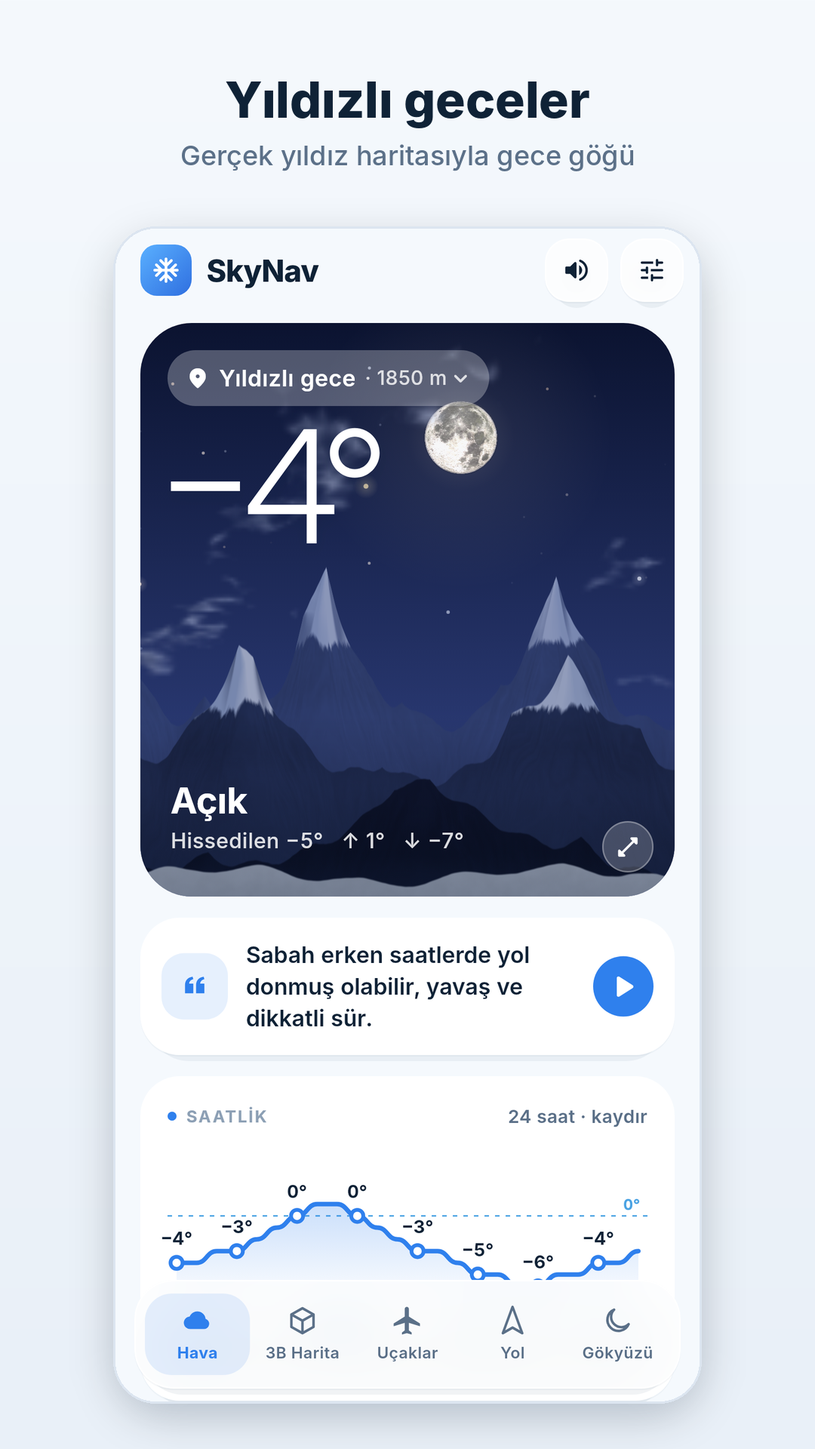
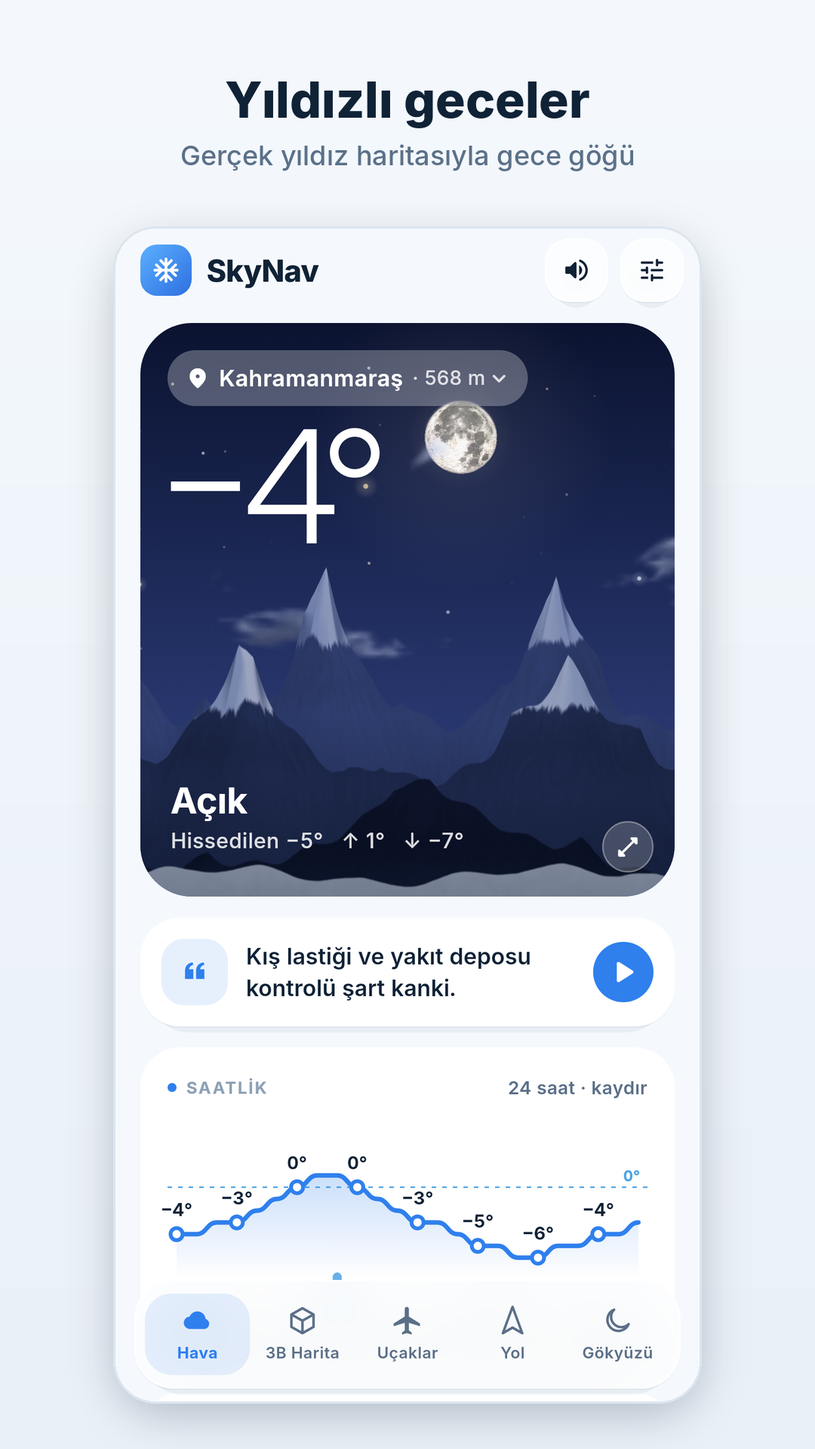
SkyNav 3.2: hesap silme, 4 uygulama ödülü kaldırıldı, mağaza görselleri Kahramanmaraş
- Ayarlar > Gizlilik & izinler > Hesabımı ve verilerimi sil: Google ile yeniden
  onay, ardından users/{uid} (yedek, Pro hakları, davet kredileri) ve hesabın silinmesi;
  cihaz özeti ve kullanılmış davet kodları kötüye kullanıma karşı saklanır
- firestore.rules: kullanıcının kendi belgesi, grants ve credits için silme izni
  (Firebase konsolunda yayınlanmalı)
- "4 uygulama = 30 gün Pro" ödülü kaldırıldı (Play teşvikli yükleme politikası);
  arkadaş daveti ödülü aynen duruyor
- Gizlilik metni güncellendi; web için docs/skynav_gizlilik.md ve skynav_hesap_silme.md
- Mağaza ekran görüntüleri Kahramanmaraş ile yeniden üretildi

Claude-Session: https://claude.ai/code/session_01SzbEojt5FNgQrVtGVW4MMb

diff --git a/skynav/test/shots/shots_test.dart b/skynav/test/shots/shots_test.dart
@@ -57,10 +57,10 @@ Future<void> _font(String family, List<String> files) async {
 WeatherSnapshot fake({PrecipKind k = PrecipKind.snow, bool day = true, double t = -2}) {
   final now = DateTime.now();
   return WeatherSnapshot(
-    place: const GeoPoint2(39.9, 41.27, elevation: 1850, name: 'Erzurum'), fetchedAt: now,
+    place: _home, fetchedAt: now,
     temp: t, feelsLike: t - 6, humidity: 88, dewPoint: t - 2, pressure: 1012, windSpeed: 6.5, windDir: 300, windGust: 11,
     cloudCover: k == PrecipKind.none ? 20 : 90, cloudHigh: 30, precip: k == PrecipKind.none ? 0 : 1.1, snowfall: k == PrecipKind.snow ? .9 : 0,
-    visibilityM: 4000, cape: 30, uv: 1.2, freezingLevelM: 900, snowDepthM: .18, wetBulb: t - .6, weatherCode: 73, isDay: day,
+    visibilityM: 4000, cape: 30, uv: 1.2, freezingLevelM: _store ? 250 : 900, snowDepthM: .18, wetBulb: t - .6, weatherCode: 73, isDay: day,
     soil0: -1.2, soil6: -.4, soil18: .8, soil54: 3.1, soil0Past3dAvg: -.6,
     pressureLevels: const {1000: {'temp': -2}, 925: {'temp': -6}, 850: {'temp': -9}, 700: {'temp': -16}, 500: {'temp': -30}, 300: {'temp': -48}},
     // Figma örneğiyle aynı saatlik seri (3 saat geçmiş + 24 saat); basınç son 3 saatte sabit.
@@ -95,6 +95,8 @@ const _hp = <double>[.5, .6, .3, 0, 0, 0, .2, .8, 1.2, .9, .4, 0, 0, 0, .3, .7, 
 
 /// Mağaza modu (--dart-define=STORE=true): tüm ekranlar 390×780, 3 kat çözünürlük, /tmp/store'a (Play görselleri).
 const _store = bool.fromEnvironment('STORE');
+/// Örnek şehir: ekran testlerinde Erzurum, mağaza görsellerinde Kahramanmaraş.
+const _home = _store ? GeoPoint2(37.585, 36.937, elevation: 568, name: 'Kahramanmaraş') : GeoPoint2(39.9, 41.27, elevation: 1850, name: 'Erzurum');
 
 Future<void> shot(WidgetTester t, Widget w, String name, {Size size = const Size(412, 915), Duration extra = Duration.zero}) async {
   if (_store) size = name == '02b_weather_full' ? const Size(390, 3400) : const Size(390, 780);
@@ -136,18 +138,18 @@ void main() {
     WeatherController.I.debugSet(s, WeatherEngine.analyze(s));
     final an = WeatherEngine.analyze(s);
     await shot(t, Scaffold(backgroundColor: const Color(0xFF6B7F99), body: Center(child: Column(mainAxisSize: MainAxisSize.min, children: [
-      WeatherWidgetFace(s: s, a: an, place: 'Erzurum', condition: 'Kar', line2: 'Rüzgâr 6 m/s · nem %88', today: s.daily.first),
+      WeatherWidgetFace(s: s, a: an, place: _home.name, condition: 'Kar', line2: 'Rüzgâr 6 m/s · nem %88', today: s.daily.first),
       const SizedBox(height: 16),
-      WeatherWidgetFace(s: fake(k: PrecipKind.none, day: false, t: 6), a: WeatherEngine.analyze(fake(k: PrecipKind.none, day: false, t: 6)), place: 'Erzurum', condition: 'Açık gece', line2: 'Yıldız netliği %80'),
+      WeatherWidgetFace(s: fake(k: PrecipKind.none, day: false, t: 6), a: WeatherEngine.analyze(fake(k: PrecipKind.none, day: false, t: 6)), place: _home.name, condition: 'Açık gece', line2: 'Yıldız netliği %80'),
       const SizedBox(height: 16),
       const Row(mainAxisSize: MainAxisSize.min, children: [
         SpeedWidgetFace(speedKmh: 54, road: 'Karlı', gText: 'G 0.2', warn: 'Yol kaygan, yavaş git kanki.', level: 1),
       ]),
       const SizedBox(height: 16),
-      HourlyWidgetFace(s: s, place: 'Erzurum', now: DateTime.now()),
+      HourlyWidgetFace(s: s, place: _home.name, now: DateTime.now()),
       const SizedBox(height: 16),
       Row(mainAxisSize: MainAxisSize.min, children: [
-        MiniWidgetFace(s: s, a: an, place: 'Erzurum', today: s.daily.first, now: DateTime.now()),
+        MiniWidgetFace(s: s, a: an, place: _home.name, today: s.daily.first, now: DateTime.now()),
         const SizedBox(width: 16),
         MoonWidgetFace(lat: s.place.lat, lon: s.place.lon, now: DateTime.now()),
       ]),
@@ -155,7 +157,7 @@ void main() {
       Row(mainAxisSize: MainAxisSize.min, children: [
         SkiWidgetFace(s: SkiNow(skiResorts.first, snowCm: 85, new24: 12, next72: 30, temp: -8, wind: 6, gust: 12, gustNext12: 14, code: 73), km: 4),
         const SizedBox(width: 16),
-        AirWidgetFace(s: s, place: 'Erzurum'),
+        AirWidgetFace(s: s, place: _home.name),
       ]),
     ]))), '00_widgets', size: const Size(412, 1200));
     await shot(t, const Onboarding(onDone: _noop), '01_onboarding');
@@ -198,7 +200,7 @@ void main() {
         ? PlaceNow(place: p, temp: -3, tMax: 0, tMin: -8, wind: 4, precip: .4, cloud: 95, code: 73, isDay: true)
         : PlaceNow(place: p, temp: 1, tMax: 4, tMin: -6, wind: 2, precip: 0, cloud: 30, code: 2, isDay: true)), '21_places', size: const Size(412, 900));
     await shot(t, CompareScreen(
-        a: PlaceNow(place: const GeoPoint2(39.9, 41.27, name: 'Erzurum'), temp: -2, tMax: 1, tMin: -7, wind: 6, precip: 1, cloud: 90, code: 73, isDay: true, days: s.daily),
+        a: PlaceNow(place: _home, temp: -2, tMax: 1, tMin: -7, wind: 6, precip: 1, cloud: 90, code: 73, isDay: true, days: s.daily),
         b: PlaceNow(place: const GeoPoint2(39.95, 41.10, name: 'Anneannem'), temp: -5, tMax: -1, tMin: -11, wind: 3, precip: 0, cloud: 30, code: 2, isDay: true,
             days: [for (final d in s.daily) DayPoint(date: d.date, tMax: d.tMax - 3, tMin: d.tMin - 4, precipSum: d.precipSum * 1.5, snowSum: d.snowSum * 1.6, windMax: d.windMax, weatherCode: d.weatherCode)])),
         '25_compare', size: const Size(412, 1000));
@@ -253,7 +255,7 @@ void main() {
         ('06f_golden', variant(4, 30, 1, 0, true, snowDepth: .1, at: GeoPoint2(39.9, _lonForSun(3), elevation: 1850, name: 'Gün batımı'))),
         ('06g_bluehour', variant(2, 20, 0, 0, false, snowDepth: .1, at: GeoPoint2(39.9, _lonForSun(-3.5), elevation: 1850, name: 'Mavi saat'))),
         // Karanlık, açık gece: gerçek yıldızlar ve gezegenler
-        ('06h_starry', variant(-4, 5, 0, 0, false, snowDepth: .1, at: GeoPoint2(39.9, _lonForSun(-35), elevation: 1850, name: 'Yıldızlı gece')))]) {
+        ('06h_starry', variant(-4, 5, 0, 0, false, snowDepth: .1, at: GeoPoint2(39.9, _lonForSun(-35), elevation: _home.elevation, name: _store ? _home.name : 'Yıldızlı gece')))]) {
       WeatherController.I.debugSet(v, WeatherEngine.analyze(v));
       await shot(t, const AppShell(), name, size: const Size(412, 560));
     }

diff --git a/skynav/lib/ui/settings_screen.dart b/skynav/lib/ui/settings_screen.dart
@@ -6,6 +6,7 @@ import 'package:package_info_plus/package_info_plus.dart';
 import 'package:permission_handler/permission_handler.dart';
 import '../data/policy_text.dart';
 import '../pro/pro_service.dart';
+import '../services/account_service.dart';
 import '../services/auth_service.dart';
 import '../services/cloud_backup.dart';
 import '../services/store.dart';
@@ -29,13 +30,11 @@ class _SettingsScreenState extends State<SettingsScreen> {
   String _ver = '';
   int _taps = 0;
   bool _devUnlocked = Store.prefs.get('dev_unlocked', defaultValue: false) as bool;
-  List<Map<String, dynamic>> _apps = [];
 
   @override
   void initState() {
     super.initState();
     PackageInfo.fromPlatform().then((p) => setState(() => _ver = '${p.version}+${p.buildNumber}'));
-    ProService.I.myApps().then((a) => setState(() => _apps = a));
   }
 
   void _tapVersion() async {
@@ -74,6 +73,42 @@ class _SettingsScreenState extends State<SettingsScreen> {
         trailing: trailing ?? (onTap != null ? const Icon(Icons.chevron_right_rounded, color: kInkFaint) : null),
         onTap: onTap,
       );
+
+  /// Hesap silme: açık uyarı → Google ile onay → sil → sonuç.
+  Future<void> _deleteAccount() async {
+    Widget line(String t) => Padding(padding: const EdgeInsets.only(top: 6), child: Row(crossAxisAlignment: CrossAxisAlignment.start, children: [
+          const Padding(padding: EdgeInsets.only(top: 7), child: Icon(Icons.circle, size: 5, color: kInkSoft)),
+          const SizedBox(width: 8),
+          Expanded(child: Text(t, style: T.small.copyWith(color: kInk))),
+        ]));
+    final yes = await showDialog<bool>(context: context, builder: (c) => AlertDialog(
+      title: const Text('Hesabın silinsin mi?'),
+      content: SingleChildScrollView(child: Column(mainAxisSize: MainAxisSize.min, crossAxisAlignment: CrossAxisAlignment.start, children: [
+        Text('Bu işlem geri alınamaz. Kalıcı olarak silinecekler:', style: T.body.copyWith(fontSize: 14.5)),
+        line('Google ile açılan SkyNav hesabın'),
+        line('Pro hakların, ödüllerin ve davet kredilerin'),
+        line('Buluttaki yedeğin: kayıtlı yerler, rozetler, kapsüller, ayarlar'),
+        const SizedBox(height: 10),
+        Text('Google Play\'den Pro satın aldıysan, aynı Gmail ile yeniden girip "Satın alımları geri yükle" ile geri getirebilirsin. '
+            'Bu telefondaki veriler kalır. Kötüye kullanımı önlemek için cihaz özeti ve kullanılmış davet kodları saklanır.', style: T.small.copyWith(fontSize: 12.5)),
+        const SizedBox(height: 10),
+        Text('Onaylamak için Google hesabını bir kez daha seçeceksin.', style: T.small.copyWith(fontSize: 12.5, fontWeight: FontWeight.w700)),
+      ])),
+      actions: [
+        TextButton(onPressed: () => Navigator.pop(c, false), child: const Text('Vazgeç')),
+        TextButton(onPressed: () => Navigator.pop(c, true), child: const Text('Kalıcı olarak sil', style: TextStyle(color: kDanger, fontWeight: FontWeight.w700))),
+      ],
+    ));
+    if (yes != true || !mounted) return;
+    showDialog<void>(context: context, barrierDismissible: false, builder: (_) => const Center(child: CircularProgressIndicator()));
+    final err = await AccountService.deleteAccount();
+    if (!mounted) return;
+    Navigator.of(context, rootNavigator: true).pop();
+    await ProService.I.refresh();
+    if (!mounted) return;
+    ScaffoldMessenger.of(context).showSnackBar(SnackBar(content: Text(err ?? 'Hesabın ve buluttaki verilerin silindi.')));
+    setState(() {});
+  }
 
   static String _ago(DateTime? t) {
     if (t == null) return 'henüz yok';
@@ -228,14 +263,6 @@ class _SettingsScreenState extends State<SettingsScreen> {
           _tile(Icons.new_releases_outlined, kAccent, 'Yenilikler', sub: 'Son sürümlerde gelenler', onTap: () => Navigator.push(context, MaterialPageRoute(builder: (_) => const WhatsNew()))),
         ]),
 
-        const SectionLabel('Diğer uygulamalarım'),
-        Glass(child: Column(crossAxisAlignment: CrossAxisAlignment.start, children: [
-          const Text('Aynı hesapla 7+ gündür aktif 4 uygulama = 30 gün Pro.', style: T.small),
-          if (_apps.isEmpty) Padding(padding: const EdgeInsets.only(top: 10), child: Text('Henüz kayıtlı uygulama yok (giriş yapınca görünür).', style: T.body.copyWith(fontSize: 14))),
-          for (final a in _apps) ListTile(contentPadding: EdgeInsets.zero, leading: const IconBadge(Icons.apps_rounded, size: 36), title: Text(a['id'].toString(), style: const TextStyle(fontWeight: FontWeight.w600)),
-              subtitle: Text('İlk: ${(a['firstSeen'] as dynamic)?.toDate().toString().substring(0, 10) ?? '-'}')),
-        ])),
-
         const SectionLabel('Gizlilik & izinler'),
         _group([
           _tile(Icons.privacy_tip_outlined, kInkSoft, 'Gizlilik Politikası', onTap: () => _show('Gizlilik Politikası', privacyText)),
@@ -243,6 +270,8 @@ class _SettingsScreenState extends State<SettingsScreen> {
           _tile(Icons.shield_outlined, kInkSoft, 'Veri Kullanımı & İzinler', onTap: () => _show('Veri Kullanımı & İzinler', dataText)),
           _tile(Icons.app_settings_alt_outlined, kAccent, 'Uygulama izinlerini değiştir', onTap: openAppSettings),
           _tile(Icons.copyright_rounded, kInkSoft, 'Kaynaklar ve lisanslar', sub: 'Ay haritası, yıldızlar, doğa sesleri, yazı tipi, haritalar', onTap: () => _show('Kaynaklar ve lisanslar', creditsText)),
+          if (AuthService.user != null)
+            _tile(Icons.person_remove_outlined, kDanger, 'Hesabımı ve verilerimi sil', sub: 'Hesabın, Pro hakların ve buluttaki yedeğin kalıcı silinir', onTap: _deleteAccount),
         ]),
 
         if (_devUnlocked) ...[

diff --git a/skynav/lib/pro/pro_service.dart b/skynav/lib/pro/pro_service.dart
@@ -10,7 +10,8 @@ import '../services/auth_service.dart';
 import '../services/cloud.dart';
 import '../services/store.dart';
 
-/// Pro hakları. Kaynaklar: geliştirici modu, ömür boyu, süreli hibeler (lansman, davet, ekosistem, satın alma).
+/// Pro hakları. Kaynaklar: geliştirici modu, ömür boyu, süreli hibeler (lansman, davet, satın alma).
+/// ("4 uygulama = 30 gün Pro" ödülü Play'in teşvikli yükleme politikası nedeniyle 3.2'de kaldırıldı; verilmiş hibeler süresince geçerli.)
 class ProState {
   final bool dev, lifetime;
   final DateTime? until;
@@ -103,7 +104,7 @@ class ProService extends ChangeNotifier {
     notifyListeners();
   }
 
-  /// Hesap açıldığında bir kez çalışır: kullanıcı belgesi, davet kodu, ekosistem, lansman ödülü.
+  /// Hesap açıldığında bir kez çalışır: kullanıcı belgesi, davet kodu, uygulama kaydı, lansman ödülü.
   Future<void> onSignedIn() async {
     if (!Cloud.ready || uid == null) return;
     final ref = _db.collection('users').doc(uid);
@@ -118,7 +119,6 @@ class ProService extends ChangeNotifier {
         });
       }
       await registerThisApp();
-      await checkEcosystem();
       await claimLaunchReward();
     } catch (e) { debugPrint('onSignedIn: $e'); }
     await refresh();
@@ -130,7 +130,7 @@ class ProService extends ChangeNotifier {
     return 'SKY-${List.generate(6, (_) => a[r.nextInt(a.length)]).join()}';
   }
 
-  /// Her açılışta: bu uygulamanın "yüklü ve aktif" kaydı (ekosistem motoru).
+  /// Her açılışta: bu uygulamanın kaydı (users/{uid}/apps/skynav; bulut yedeği de bu belgede durur).
   Future<void> registerThisApp({String appId = 'skynav'}) async {
     if (!Cloud.ready || uid == null) return;
     final ref = _db.collection('users').doc(uid).collection('apps').doc(appId);
@@ -140,30 +140,6 @@ class ProService extends ChangeNotifier {
     } else {
       await ref.update({'lastActive': FieldValue.serverTimestamp()});
     }
-  }
-
-  /// Aynı Gmail'de ≥7 gündür yüklü + son 7 günde aktif ≥4 farklı uygulama → 30 gün Pro.
-  Future<List<Map<String, dynamic>>> myApps() async {
-    if (!Cloud.ready || uid == null) return [];
-    final q = await _db.collection('users').doc(uid).collection('apps').get();
-    return q.docs.map((d) => {'id': d.id, ...d.data()}).toList();
-  }
-
-  Future<bool> checkEcosystem() async {
-    final apps = await myApps();
-    final now = DateTime.now();
-    int ok = 0;
-    for (final a in apps) {
-      final f = (a['firstSeen'] as Timestamp?)?.toDate();
-      final l = (a['lastActive'] as Timestamp?)?.toDate();
-      if (f != null && l != null && now.difference(f).inDays >= 7 && now.difference(l).inDays <= 7) ok++;
-    }
-    if (ok < 4) return false;
-    final g = _db.collection('users').doc(uid).collection('grants').doc('eco_30d');
-    if ((await g.get()).exists) return false;
-    await g.set({'kind': 'eco', 'days': 30, 'until': Timestamp.fromDate(now.add(const Duration(days: 30))), 'at': FieldValue.serverTimestamp()});
-    lastMessage = '4 uygulamam = 1 ay Pro! Aynı hesapla 4 uygulamayı kullandığın için 30 gün SkyNav Pro hediye.';
-    return true;
   }
 
   // ---------- Lansman ödül sayacı ----------

diff --git a/skynav/lib/services/account_service.dart b/skynav/lib/services/account_service.dart
@@ -1,0 +1,52 @@
+import 'package:cloud_firestore/cloud_firestore.dart';
+import 'package:flutter/foundation.dart';
+import 'package:google_sign_in/google_sign_in.dart';
+import 'auth_service.dart';
+import 'cloud.dart';
+import 'store.dart';
+
+/// Hesap silme (Google Play hesap silme şartı): Ayarlar > Gizlilik & izinler > Hesabımı ve verilerimi sil.
+///
+/// Silinenler: users/{uid} belgesi ve alt koleksiyonları (apps: bulut yedeği ve uygulama kaydı, grants: Pro hakları,
+/// credits: davet kredileri) ve Firebase Auth kullanıcısı. Kötüye kullanımı önlemek için devices (cihaz özeti) ve
+/// invites (kullanılmış davet kodları) saklanır; gizlilik metninde yazılı. Telefondaki yerel veriler (kayıtlı yerler vb.)
+/// silinmez; yalnızca hesapla ilgili yerel izler temizlenir.
+///
+/// firestore.rules: users/{uid}, grants ve credits için sahibine delete izni gerekir (3.2'de eklendi; konsolda yayınlanmalı).
+class AccountService {
+  /// Başarılıysa null, değilse kullanıcıya gösterilecek hata metni.
+  static Future<String?> deleteAccount() async {
+    final u = AuthService.user;
+    if (!Cloud.ready || u == null) return 'Giriş yapılmamış.';
+    // Firebase hesap silmek için yakın tarihli giriş ister: önce doğrula, sonra sil (yarım kalmasın)
+    final re = await AuthService.reauthenticate();
+    if (re != null) return re;
+    final me = FirebaseFirestore.instance.collection('users').doc(u.uid);
+    try {
+      for (final c in const ['apps', 'grants', 'credits']) {
+        final q = await me.collection(c).get();
+        for (var i = 0; i < q.docs.length; i += 400) {
+          final b = FirebaseFirestore.instance.batch();
+          for (final d in q.docs.skip(i).take(400)) { b.delete(d.reference); }
+          await b.commit();
+        }
+      }
+      await me.delete();
+      await u.delete();
+    } on FirebaseException catch (e) {
+      debugPrint('hesap silme: $e');
+      return e.code == 'permission-denied'
+          ? 'Silme şu an yapılamadı (sunucu izni). Lütfen daha sonra tekrar dene.'
+          : 'Silinemedi: ${e.message ?? e.code}. İnternet bağlantını kontrol edip tekrar dene.';
+    } catch (e) {
+      debugPrint('hesap silme: $e');
+      return 'Silinemedi. İnternet bağlantını kontrol edip tekrar dene.';
+    }
+    try { await GoogleSignIn.instance.signOut(); } catch (_) {}
+    // Hesapla ilgili yerel izler (Pro önbelleği, bulut eşitleme damgası, davet kodu)
+    for (final k in const ['cloud_rev', 'cloud_backup_at', 'cloud_backup_off', 'pro_until', 'pro_life', 'dev_account', 'discount_until', 'launch_checked', 'pending_code']) {
+      try { await Store.prefs.delete(k); } catch (_) {}
+    }
+    return null;
+  }
+}

diff --git a/skynav/lib/ui/onboarding.dart b/skynav/lib/ui/onboarding.dart
@@ -204,9 +204,8 @@ class _OnboardingState extends State<Onboarding> {
         const SizedBox(height: 10),
         const Text('Google ile girersen haklarını kaybetmezsin, uygulamalarım arasında birleşir.', style: T.body),
         const SizedBox(height: 22),
-        const _Feature(Icons.workspace_premium_rounded, kPro, '4 uygulama = 1 ay Pro', 'Aynı hesapla 4 uygulamamı 7+ gün kullanırsan 30 gün Pro hediye.'),
         const _Feature(Icons.card_giftcard_rounded, kGood, 'Davet ödülleri', 'Kodunu paylaş; arkadaşın onaylarsa ikiniz de 1 hafta Pro.'),
-        const _Feature(Icons.sync_rounded, kAccent, 'Hakların güvende', 'Telefon değiştirsen de Pro ve ödüllerin hesabında kalır.'),
+        const _Feature(Icons.sync_rounded, kAccent, 'Verilerin güvende', 'Telefon değiştirsen ya da uygulamayı silip yüklesen de Pro, kayıtlı yerlerin ve ayarların hesabında kalır.'),
         for (final n in _notes) Padding(padding: const EdgeInsets.only(top: 8), child: Row(crossAxisAlignment: CrossAxisAlignment.start, children: [
           const Icon(Icons.info_outline_rounded, size: 18, color: kWarn), const SizedBox(width: 8), Expanded(child: Text(n, style: T.small.copyWith(color: kInk))),
         ])),

diff --git a/skynav/lib/data/policy_text.dart b/skynav/lib/data/policy_text.dart
@@ -7,7 +7,7 @@ const privacyText = '''Gizlilik Politikası (özet)
 • Cihaz kimliği: davet/ödül suistimalini önlemek için cihazdan türetilmiş tek yönlü bir özet (hash) saklanır; ham kimlik gönderilmez.
 • Özetler ve hava önbelleği yalnızca cihazında (Hive) kalır. Giriş yapmadıysan ya da bulut yedeği kapalıysa kayıtlı konumların ve öz-denetim kayıtların da yalnızca cihazındadır. Harici yapay zeka servisi kullanılmaz.
 • Kamera/mikrofon yalnızca "Kendi Hava Kanalını Sun" kaydı sırasında, senin başlattığında çalışır; kayıt cihazında kalır.
-• Verilerini silmek için Ayarlar > Hesabı ve verilerimi sil.''';
+• Hesabını ve verilerini silmek için: Ayarlar > Gizlilik & izinler > Hesabımı ve verilerimi sil. Hesabın, Pro hakların, davet kredilerin ve buluttaki yedeğin kalıcı olarak silinir. Kötüye kullanımı önlemek için cihazdan türetilmiş tek yönlü özet ve kullanılmış davet kodları saklanır. Telefondaki veriler uygulamayı silince kalkar.''';
 
 const termsText = '''Kullanım Şartları (özet)
 

diff --git a/skynav/lib/services/auth_service.dart b/skynav/lib/services/auth_service.dart
@@ -27,6 +27,22 @@ class AuthService {
     }
   }
 
+  /// Hassas işlemlerden (hesap silme) önce: aynı Google hesabıyla yeniden doğrular. Başarılıysa null, değilse hata metni.
+  static Future<String?> reauthenticate() async {
+    final u = user;
+    if (u == null) return 'Giriş yapılmamış.';
+    try {
+      if (!_gsiInit) { await GoogleSignIn.instance.initialize(serverClientId: _webClientId); _gsiInit = true; }
+      final acc = await GoogleSignIn.instance.authenticate();
+      await u.reauthenticateWithCredential(GoogleAuthProvider.credential(idToken: acc.authentication.idToken));
+      return null;
+    } on FirebaseAuthException catch (e) {
+      return e.code == 'user-mismatch' ? 'Giriş yaptığın Gmail hesabını seçmelisin.' : 'Doğrulanamadı: ${e.message ?? e.code}';
+    } catch (e) {
+      return 'Doğrulama iptal edildi.';
+    }
+  }
+
   static Future<void> signOut() async {
     try { await GoogleSignIn.instance.signOut(); } catch (_) {}
     if (Cloud.ready) await FirebaseAuth.instance.signOut();

diff --git a/skynav/lib/ui/whats_new.dart b/skynav/lib/ui/whats_new.dart
@@ -34,6 +34,7 @@ class WhatsNew extends StatelessWidget {
     ]),
     (Icons.touch_app_outlined, kWarn, kBentoPeach, 'Kolaylık', [
       'Bulut yedeği: Gmail ile girersen yerlerin, rozetlerin ve ayarların hesabına yedeklenir; silip yüklesen de geri gelir',
+      'Hesabımı ve verilerimi sil: Ayarlar > Gizlilik & izinler',
       'Günlere ve saatlere dokun: ayrıntı sayfası',
       'Anlaşılır dil: bilimsel terimler gündelik dile döner',
       'Konum araması yazarken arar; büyük yazı, küçük ekran ve ekran okuyucu desteği',

diff --git a/docs/skynav_gizlilik.md b/docs/skynav_gizlilik.md
@@ -1,0 +1,14 @@
+# SkyNav — Gizlilik Politikası
+
+**Uygulama:** SkyNav: Kar, Hava ve Gökyüzü (Google Play)
+
+- SkyNav reklam göstermez, verini satmaz.
+- Konum: hava durumunu, rakımını ve çevre dağlarını hesaplamak için cihazında kullanılır. Hava verisi alınırken yaklaşık koordinatın Open-Meteo, NOAA ve RainViewer gibi ücretsiz servislere gider; kim olduğun gönderilmez.
+- Hesap: Google ile girersen e-posta adresin ve Pro hakların Firebase'de (Firestore) senin hesabına bağlı saklanır. Girişsiz de kullanabilirsin.
+- Bulut yedeği: Google ile girdiysen kayıtlı yerlerin, rozetlerin, zaman kapsüllerin, gözlem kayıtların ve uygulama ayarların da Firestore'da yalnızca senin erişebildiğin hesap kaydına yedeklenir; uygulamayı silip yeniden kursan ya da telefon değiştirsen aynı Google hesabıyla girince geri gelir. Ayarlar > Bulut yedeği'nden kapatabilir ya da buluttaki yedeği silebilirsin.
+- Cihaz kimliği: davet/ödül suistimalini önlemek için cihazdan türetilmiş tek yönlü bir özet (hash) saklanır; ham kimlik gönderilmez.
+- Özetler ve hava önbelleği yalnızca cihazında (Hive) kalır. Giriş yapmadıysan ya da bulut yedeği kapalıysa kayıtlı konumların ve öz-denetim kayıtların da yalnızca cihazındadır. Harici yapay zeka servisi kullanılmaz.
+- Kamera/mikrofon yalnızca "Kendi Hava Kanalını Sun" kaydı sırasında, senin başlattığında çalışır; kayıt cihazında kalır.
+- Hesabını ve verilerini silmek için: Ayarlar > Gizlilik & izinler > Hesabımı ve verilerimi sil. Hesabın, Pro hakların, davet kredilerin ve buluttaki yedeğin kalıcı olarak silinir. Kötüye kullanımı önlemek için cihazdan türetilmiş tek yönlü özet ve kullanılmış davet kodları saklanır. Telefondaki veriler uygulamayı silince kalkar.
+
+Hesap ve veri silme: [skynav_hesap_silme.md](skynav_hesap_silme.md)

diff --git a/docs/SKYNAV_DEVAM.md b/docs/SKYNAV_DEVAM.md
@@ -177,3 +177,15 @@ Kullanıcı (RSA): Türkçe, kısa ve samimi konuş; teknik değil, tasarıma ç
   windows-latest'te VS 2026 var ve Flutter 3.35.7 tanımıyor). kilit/main'i çekip `flutter create --platforms=windows`,
   dik pencere 440×920, Inno Setup ile SkyNav-Setup-<sürüm>.exe + zip → o deponun Releases'ına.
   Windows'ta telefona özel eklentiler (widget, workmanager, Google giriş, satın alma, sensörler) çalışmaz.
+
+## 3.2.0+26 — Play politikası
+- "4 uygulama = 30 gün Pro" (ekosistem) ödülü KALDIRILDI (Play: teşvikli yükleme yasağı). pro_service: checkEcosystem/myApps
+  silindi; registerThisApp kalır (apps/skynav belgesi bulut yedeğini taşır). Onboarding ve Ayarlar'daki "Diğer uygulamalarım"
+  kalktı. Arkadaş daveti ödülü aynen duruyor. Kurallarda 'eco' türü bırakıldı (Firebase projesi diğer uygulamalarla ortak olabilir).
+- Hesap silme: lib/services/account_service.dart + AuthService.reauthenticate; Ayarlar > Gizlilik & izinler >
+  "Hesabımı ve verilerimi sil" (girişliyse). Siler: users/{uid} + apps/grants/credits + Auth kullanıcısı. Saklar: devices, invites.
+  firestore.rules'a users/grants/credits için sahibine delete izni eklendi → KULLANICI FIREBASE KONSOLUNDA YAYINLAMALI,
+  yoksa silme "sunucu izni" hatası verir.
+- Web sayfaları (Play Console'a link): docs/skynav_gizlilik.md, docs/skynav_hesap_silme.md (GitHub'da görüntülenir).
+  hesap_silme.md'de [DESTEK E-POSTASI] yer tutucusu var: kullanıcıdan adres alınacak.
+- Mağaza görselleri Kahramanmaraş (shots_test STORE modunda _home; donma seviyesi 250 m ki "Karlı" görünsün).

diff --git a/docs/skynav_hesap_silme.md b/docs/skynav_hesap_silme.md
@@ -1,0 +1,24 @@
+# SkyNav — Hesap ve veri silme
+
+**Uygulama:** SkyNav: Kar, Hava ve Gökyüzü (Google Play) · **Geliştirici:** SkyNav
+
+## Uygulamanın içinden (önerilen)
+1. SkyNav'ı aç ve Google hesabınla giriş yapmış ol.
+2. **Ayarlar → Gizlilik & izinler → Hesabımı ve verilerimi sil**'e dokun.
+3. Uyarıyı okuyup **Kalıcı olarak sil**'e dokun ve onay için Google hesabını seç.
+
+## Uygulama olmadan
+Uygulama artık telefonunda yoksa, SkyNav'a giriş yaptığın Gmail adresinden **[DESTEK E-POSTASI]** adresine
+"SkyNav hesap silme" konulu bir e-posta gönder. Talebin en geç 30 gün içinde yerine getirilir.
+
+## Silinen veriler
+- Google ile açılan SkyNav hesabın (e-posta adresi, kullanıcı kimliği)
+- Pro hakların, ödüllerin ve davet kredilerin
+- Bulut yedeğin: kayıtlı yerler, rozetler, zaman kapsülleri, gözlem kayıtları, uygulama ayarları
+
+## Saklanan veriler
+- Ödül ve davet sisteminin kötüye kullanımını önlemek için cihazdan türetilmiş tek yönlü bir özet (ham cihaz kimliği değil)
+  ve kullanılmış davet kodları saklanır.
+- Google Play'den yapılan satın almaların kaydı Google Play hesabında kalır (Google'ın kendi politikası).
+
+Telefondaki yerel veriler (kayıtlı yerler, ayarlar) uygulamayı kaldırdığında silinir.
